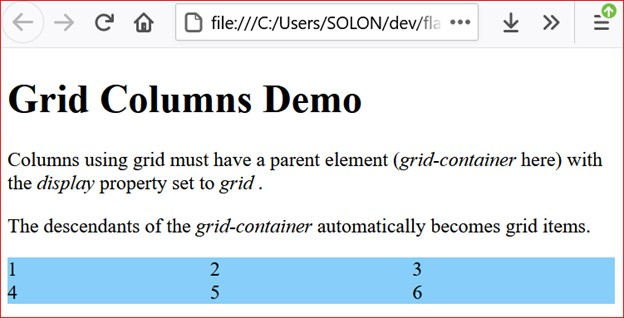
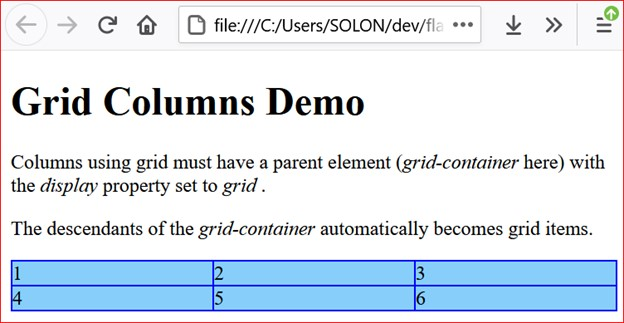
edited borders for index2.html

diff --git a/index2.html b/index2.html
@@ -7,8 +7,7 @@ div {
 }
 .grid-container {
   display: grid;
-  grid-template-columns: auto auto auto;
-  grid-template-rows: 80px 200px;
+  grid-template-rows: 100px 200px 300px; /* only the height of the first three rows is specified */
   background-color: lightskyblue;
 
 }
@@ -17,18 +16,15 @@ div {
 </head>
 <body>
 
-<h1>The grid-template-rows Property</h1>
+<h1>Illustrating the grid-template-rows Property</h1>
 
 <div class="grid-container">
   <div>1</div>
   <div>2</div>
   <div>3</div>  
   <div>4</div>
-  <div>5</div>
-  <div>6</div>  
 </div>
 
-<p>Use the <em>grid-template-rows</em> property to specify the size (height) of each row.</p>
 
 </body>
 </html>
